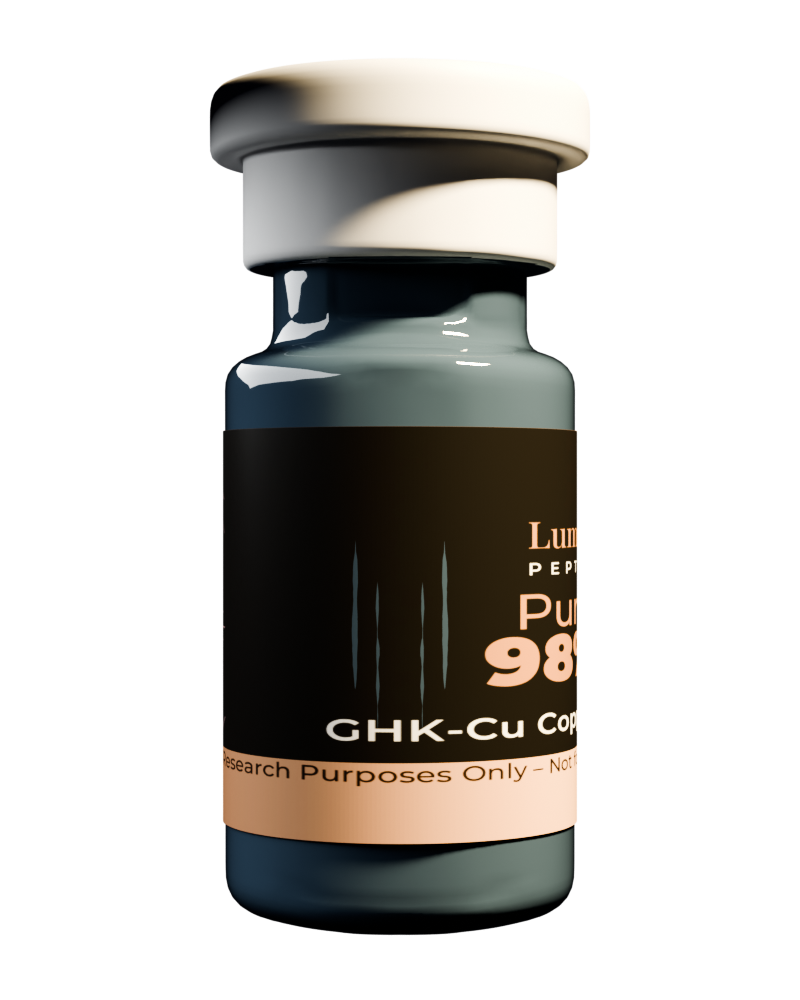
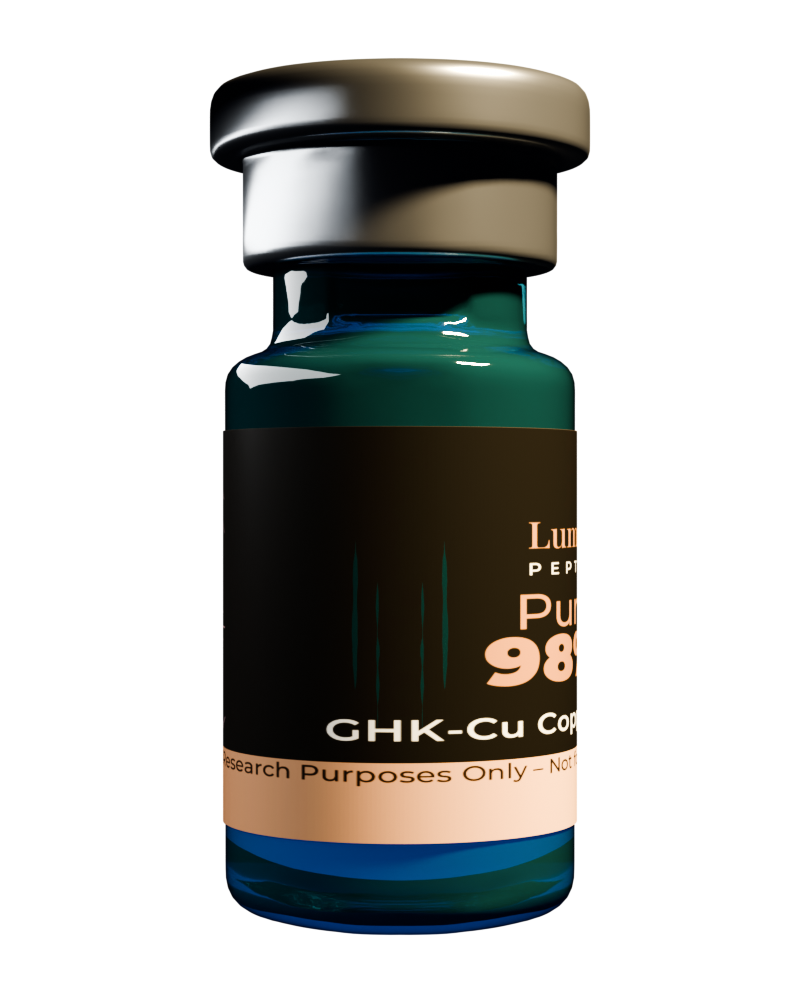
feat: teal glass + silver cap + blue powder content in 3D vial viewer
- Glass: teal pharmaceutical tint (0x082e35) with transmission=0.62 so
  interior is visible; IOR=1.50, clearcoat=0.95
- Cap: silver aluminum crimp (0x9CA4AB, metalness=0.90, roughness=0.22)
- Blue powder: oblate sphere inside vial (emissive blue, flattened 0.42x)
  added programmatically in Three.js; also present in Blender render
- Blender samples: 256 → 512 for higher quality render
- OBJ export excludes VialContent powder sphere (added in Three.js directly)

Changed region(s): [[0.25, 0.031, 0.75, 0.434], [0.2812, 0.806, 0.7188, 0.961], [0.4375, 0.558, 0.5625, 0.682]]

diff --git a/index.html b/index.html
@@ -2792,24 +2792,26 @@
     // ── Materials ─────────────────────────────────────────────────────────────
     const tl = new THREE.TextureLoader();
 
-    // Glass body — vidro escuro opaco farmacêutico
-    // transmission + DoubleSide causa halo luminoso que faz label parecer flutuante
+    // Glass body — vidro teal farmacêutico transparente (mostra pó azul interno)
     const matGlass = new THREE.MeshPhysicalMaterial({
-      color:              0x0c1820,   // azul-escuro farmacêutico
+      color:              0x082e35,   // teal farmacêutico
       roughness:          0.04,
       metalness:          0.0,
-      clearcoat:          0.9,
+      transmission:       0.62,       // vidro semi-transparente
+      thickness:          0.55,       // espessura da parede
+      ior:                1.50,
+      clearcoat:          0.95,
       clearcoatRoughness: 0.02,
-      reflectivity:       0.3,
-      envMapIntensity:    0.55,
+      envMapIntensity:    0.5,
+      side:               THREE.FrontSide,
     });
 
-    // Cap — white rubber stopper
+    // Cap — alumínio prateado crimp seal
     const matCap = new THREE.MeshStandardMaterial({
-      color:           0xF4F2EF,
-      roughness:       0.55,
-      metalness:       0,
-      envMapIntensity: 0.3,
+      color:           0x9CA4AB,   // prata alumínio
+      roughness:       0.22,
+      metalness:       0.90,
+      envMapIntensity: 1.8,
     });
 
     // Label — real label texture + hot stamp copper foil
@@ -2863,8 +2865,28 @@
         // Scale to ~2 units tall
         const size   = box.getSize(new THREE.Vector3());
         const maxDim = Math.max(size.x, size.y, size.z);
-        obj.scale.setScalar(2 / maxDim);
+        const sc     = 2 / maxDim;
+        obj.scale.setScalar(sc);
         scene.add(obj);
+
+        // Pó azul interno — esfera achatada no fundo do vial
+        const bodyR  = (size.x / 2) * sc;   // raio do corpo escalado
+        const vialH  = size.y * sc;           // altura total escalada (~2)
+        const matPowder = new THREE.MeshStandardMaterial({
+          color:             0x1040e0,
+          emissive:          0x0820b8,
+          emissiveIntensity: 0.55,
+          roughness:         0.92,
+          metalness:         0.0,
+        });
+        const powder = new THREE.Mesh(
+          new THREE.SphereGeometry(bodyR * 0.80, 40, 20),
+          matPowder
+        );
+        powder.scale.set(1, 0.42, 1);         // achatado horizontal
+        powder.position.set(0, -vialH * 0.35, 0);  // fundo do vial
+        scene.add(powder);
+
         vialObj = obj;
         loading.style.display = 'none';
       },

diff --git a/3d/blender_studio.py b/3d/blender_studio.py
@@ -21,7 +21,7 @@ bpy.ops.wm.read_factory_settings(use_empty=True)
 # ── 2. Render settings ────────────────────────────────────────────────────────
 scene = bpy.context.scene
 scene.render.engine            = 'CYCLES'
-scene.cycles.samples           = 256
+scene.cycles.samples           = 512
 scene.cycles.use_denoising     = True
 scene.cycles.denoiser          = 'OPENIMAGEDENOISE'
 
@@ -95,23 +95,32 @@ def make_glass():
     out  = nt.nodes.new('ShaderNodeOutputMaterial'); out.location  = (400, 0)
     bsdf = nt.nodes.new('ShaderNodeBsdfPrincipled'); bsdf.location = (0, 0)
     nt.links.new(bsdf.outputs['BSDF'], out.inputs['Surface'])
-    bsdf.inputs['Base Color'].default_value = (0.055, 0.087, 0.127, 1)
+    bsdf.inputs['Base Color'].default_value = (0.04, 0.20, 0.22, 1)  # teal pharmaceutical
     bsdf.inputs['Metallic'].default_value   = 0.0
     bsdf.inputs['Roughness'].default_value  = 0.04
-    bsdf.inputs['IOR'].default_value        = 1.47
+    bsdf.inputs['IOR'].default_value        = 1.50
+    try:
+        bsdf.inputs['Transmission Weight'].default_value = 0.82  # glass transparency
+    except KeyError:
+        bsdf.inputs['Transmission'].default_value = 0.82
     try:
         bsdf.inputs['Coat Weight'].default_value    = 1.0
         bsdf.inputs['Coat Roughness'].default_value = 0.0
     except KeyError: pass
+    m.use_backface_culling = False
     return m
 
 def make_cap():
     m = bpy.data.materials.new("VialCap")
     m.use_nodes = True
-    b = m.node_tree.nodes['Principled BSDF']
-    b.inputs['Base Color'].default_value = (0.96, 0.95, 0.94, 1)
-    b.inputs['Roughness'].default_value  = 0.55
-    b.inputs['Metallic'].default_value   = 0.0
+    nt = m.node_tree
+    for n in list(nt.nodes): nt.nodes.remove(n)
+    out  = nt.nodes.new('ShaderNodeOutputMaterial'); out.location  = (400, 0)
+    b    = nt.nodes.new('ShaderNodeBsdfPrincipled'); b.location    = (0, 0)
+    nt.links.new(b.outputs['BSDF'], out.inputs['Surface'])
+    b.inputs['Base Color'].default_value = (0.65, 0.67, 0.70, 1)  # silver aluminum
+    b.inputs['Roughness'].default_value  = 0.22
+    b.inputs['Metallic'].default_value   = 0.92
     return m
 
 mat_glass = make_glass()
@@ -217,14 +226,41 @@ ll.new(bsdf_l.outputs['BSDF'], out_l.inputs['Surface'])
 
 lbl_obj.data.materials.append(mat_lbl)
 
-# ── 9. World ──────────────────────────────────────────────────────────────────
+# ── 9. Blue powder content (render only — excluded from OBJ export) ──────────
+powder_r = body_r_raw * 0.78
+bpy.ops.mesh.primitive_uv_sphere_add(
+    radius=powder_r, segments=64, ring_count=32,
+    location=(0, 0, vial_z_min + vial_height * 0.12)
+)
+pow_obj      = bpy.context.active_object
+pow_obj.name = "VialContent"
+pow_obj.scale.z = 0.42  # flatten to oblate powder pile
+
+mat_pow = bpy.data.materials.new("VialContent")
+mat_pow.use_nodes = True
+pnt = mat_pow.node_tree
+for n in list(pnt.nodes): pnt.nodes.remove(n)
+out_p  = pnt.nodes.new('ShaderNodeOutputMaterial'); out_p.location  = (400, 0)
+bsdf_p = pnt.nodes.new('ShaderNodeBsdfPrincipled'); bsdf_p.location = (0, 0)
+pnt.links.new(bsdf_p.outputs['BSDF'], out_p.inputs['Surface'])
+bsdf_p.inputs['Base Color'].default_value = (0.02, 0.12, 0.92, 1)  # strong blue
+bsdf_p.inputs['Roughness'].default_value  = 0.90
+bsdf_p.inputs['Metallic'].default_value   = 0.0
+try:
+    bsdf_p.inputs['Emission Color'].default_value    = (0.05, 0.20, 1.00, 1)
+    bsdf_p.inputs['Emission Strength'].default_value = 0.6
+except KeyError: pass
+pow_obj.data.materials.append(mat_pow)
+print(f"Powder sphere: r={powder_r:.4f} at z={vial_z_min + vial_height * 0.12:.4f}")
+
+# ── 10. World ──────────────────────────────────────────────────────────────────
 world = bpy.data.worlds.new("StudioWorld")
 scene.world = world
 world.use_nodes = True
 world.node_tree.nodes['Background'].inputs['Color'].default_value    = (0.028, 0.031, 0.053, 1)
 world.node_tree.nodes['Background'].inputs['Strength'].default_value = 0.18
 
-# ── 10. Camera ────────────────────────────────────────────────────────────────
+# ── 11. Camera ────────────────────────────────────────────────────────────────
 cam_d = bpy.data.cameras.new("ProductCam"); cam_d.lens = 85
 cam_o = bpy.data.objects.new("Camera", cam_d)
 bpy.context.collection.objects.link(cam_o)
@@ -233,7 +269,7 @@ cam_o.location       = (0, -dist, 0)
 cam_o.rotation_euler = (math.radians(90), 0, 0)
 scene.camera = cam_o
 
-# ── 11. Studio lights (warm copper — no blue) ─────────────────────────────────
+# ── 12. Studio lights (warm copper — no blue) ─────────────────────────────────
 def area_light(name, energy, color, size, loc, rot_deg):
     d = bpy.data.lights.new(name, 'AREA')
     d.energy, d.color, d.size = energy, color, size
@@ -248,15 +284,16 @@ area_light("Fill",    550, (0.88, 0.91, 0.93), 5.0, (-h*2,  -h*0.4,  h*0.6), (-1
 area_light("Rim",    1800, (1.00, 0.74, 0.38), 0.8, (  0,    h*1.8,  h*1.0), ( 55, 0,   5))
 area_light("Bounce",  200, (0.92, 0.80, 0.60), 4.0, (  0,    0,     -h*1.8), (  0, 0,   0))
 
-# ── 12. Render ────────────────────────────────────────────────────────────────
+# ── 13. Render ────────────────────────────────────────────────────────────────
 print("=== Starting render ===")
 bpy.ops.render.render(write_still=True)
 print(f"=== Render saved: {RENDER_OUT} ===")
 
-# ── 13. Export OBJ for Three.js ───────────────────────────────────────────────
+# ── 14. Export OBJ for Three.js (exclude VialContent powder sphere) ───────────
 bpy.ops.object.select_all(action='DESELECT')
 for o in bpy.data.objects:
-    if o.type == 'MESH': o.select_set(True)
+    if o.type == 'MESH' and o.name != 'VialContent':
+        o.select_set(True)
 
 bpy.ops.wm.obj_export(
     filepath=OBJ_OUT,